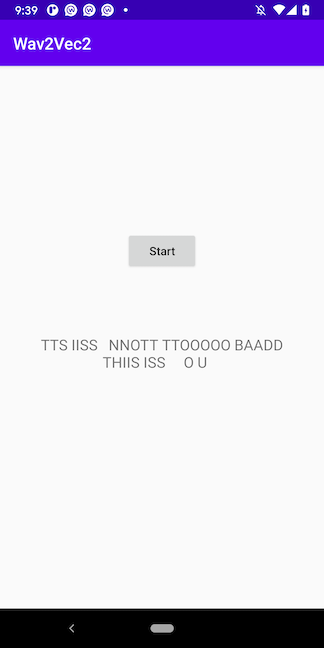
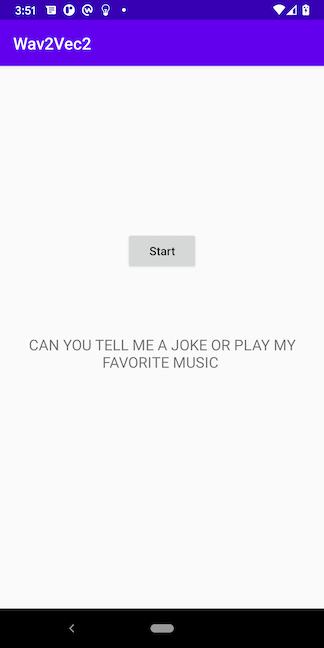
Updated speech recognition and machine translation apps for PyTorch 1.9 Lite Interpreter (#175)
* initial commit

* Revert "initial commit"

This reverts commit 5a65775315ad581637837a408f80607fa5e3fed7.

* main readme and helloworld/demo app readme updates

* updated script, Android code, README, model download link for the wav2vec2 ASR app to use 1.9 lite interpreter

* updated script, Android code, README, model download link for the NMT app to use 1.9 lite interpreter

diff --git a/Seq2SeqNMT/app/src/main/java/org/pytorch/demo/seq2seqnmt/MainActivity.java b/Seq2SeqNMT/app/src/main/java/org/pytorch/demo/seq2seqnmt/MainActivity.java
@@ -6,7 +6,9 @@
 
 package org.pytorch.demo.seq2seqnmt;
 
+import android.content.Context;
 import android.os.Bundle;
+import android.util.Log;
 import android.view.View;
 import android.widget.Button;
 import android.widget.EditText;
@@ -21,11 +23,16 @@ import org.pytorch.Module;
 import org.pytorch.PyTorchAndroid;
 import org.pytorch.Tensor;
 
+import java.io.File;
+import java.io.FileOutputStream;
 import java.io.IOException;
 import java.io.InputStream;
+import java.io.OutputStream;
 import java.nio.FloatBuffer;
 import java.nio.LongBuffer;
 import java.util.ArrayList;
+
+import org.pytorch.LiteModuleLoader;
 
 public class MainActivity extends AppCompatActivity implements Runnable{
     // to be consistent with the model inputs defined in seq2seq_nmt.py, based on
@@ -43,6 +50,26 @@ public class MainActivity extends AppCompatActivity implements Runnable{
     private EditText mEditText;
     private TextView mTextView;
     private Button mButton;
+
+    private static String assetFilePath(Context context, String assetName) throws IOException {
+        File file = new File(context.getFilesDir(), assetName);
+        if (file.exists() && file.length() > 0) {
+            return file.getAbsolutePath();
+        }
+
+        try (InputStream is = context.getAssets().open(assetName)) {
+            try (OutputStream os = new FileOutputStream(file)) {
+                byte[] buffer = new byte[4 * 1024];
+                int read;
+                while ((read = is.read(buffer)) != -1) {
+                    os.write(buffer, 0, read);
+                }
+                os.flush();
+            }
+            return file.getAbsolutePath();
+        }
+    }
+
 
     @Override
     protected void onCreate(Bundle savedInstanceState) {
@@ -76,7 +103,12 @@ public class MainActivity extends AppCompatActivity implements Runnable{
 
     private String translate(final String text) {
         if (mModuleEncoder == null) {
-            mModuleEncoder = PyTorchAndroid.loadModuleFromAsset(getAssets(), "optimized_encoder_150k.pth");
+            try {
+                mModuleEncoder = LiteModuleLoader.load(MainActivity.assetFilePath(getApplicationContext(), "optimized_encoder_150k.ptl"));
+            } catch (IOException e) {
+                Log.e(TAG, "Error reading assets", e);
+                finish();
+            }
         }
 
         String json;
@@ -140,7 +172,12 @@ public class MainActivity extends AppCompatActivity implements Runnable{
         Tensor outputsTensor = Tensor.fromBlob(outputsTensorBuffer, outputsShape);
         final long[] decoderInputShape = new long[]{1, 1};
         if (mModuleDecoder == null) {
-            mModuleDecoder = PyTorchAndroid.loadModuleFromAsset(getAssets(), "optimized_decoder_150k.pth");
+            try {
+                mModuleDecoder = LiteModuleLoader.load(MainActivity.assetFilePath(getApplicationContext(), "optimized_decoder_150k.ptl"));
+            } catch (IOException e) {
+                Log.e(TAG, "Error reading assets", e);
+                finish();
+            }
         }
 
         mInputTensorBuffer = Tensor.allocateLongBuffer(1);

diff --git a/SpeechRecognition/app/src/main/java/org/pytorch/demo/speechrecognition/MainActivity.java b/SpeechRecognition/app/src/main/java/org/pytorch/demo/speechrecognition/MainActivity.java
@@ -25,7 +25,8 @@ import java.io.IOException;
 import java.io.InputStream;
 import java.io.OutputStream;
 import java.nio.FloatBuffer;
-import java.util.Map;
+
+import org.pytorch.LiteModuleLoader;
 
 
 public class MainActivity extends AppCompatActivity implements Runnable {
@@ -36,7 +37,7 @@ public class MainActivity extends AppCompatActivity implements Runnable {
     private Button mButton;
 
     private final static int REQUEST_RECORD_AUDIO = 13;
-    private final static int AUDIO_LEN_IN_SECOND = 12;
+    private final static int AUDIO_LEN_IN_SECOND = 6;
     private final static int SAMPLE_RATE = 16000;
     private final static int RECORDING_LENGTH = SAMPLE_RATE * AUDIO_LEN_IN_SECOND;
 
@@ -193,9 +194,7 @@ public class MainActivity extends AppCompatActivity implements Runnable {
 
     private String recognize(float[] floatInputBuffer) {
         if (mModuleEncoder == null) {
-            final String moduleFileAbsoluteFilePath = new File(
-                    assetFilePath(this, "wav2vec2.pt")).getAbsolutePath();
-            mModuleEncoder = Module.load(moduleFileAbsoluteFilePath);
+            mModuleEncoder = LiteModuleLoader.load(assetFilePath(getApplicationContext(), "wav2vec2.ptl"));
         }
 
         double wav2vecinput[] = new double[RECORDING_LENGTH];

diff --git a/Seq2SeqNMT/seq2seq_nmt.py b/Seq2SeqNMT/seq2seq_nmt.py
@@ -287,7 +287,7 @@ def trainIters(encoder, decoder, n_iters, print_every=1000, plot_every=100, lear
 hidden_size = 256
 encoder = EncoderRNN(input_lang.n_words, hidden_size).to(device)
 decoder = AttnDecoderRNN(hidden_size, output_lang.n_words, dropout_p=0.1).to(device)
-#trainIters(encoder, decoder, 450100, print_every=5000)
+trainIters(encoder, decoder, 450100, print_every=5000)
 
 encoder = EncoderRNN(input_lang.n_words, hidden_size)
 decoder = AttnDecoderRNN(hidden_size, output_lang.n_words)
@@ -319,7 +319,7 @@ traced_decoder = torch.jit.trace(quantized_decoder, (decoder_input1, decoder_inp
 from torch.utils.mobile_optimizer import optimize_for_mobile
 
 traced_encoder_optimized = optimize_for_mobile(traced_encoder)
-traced_encoder_optimized.save("optimized_encoder_150k.pth")
+traced_encoder_optimized._save_for_lite_interpreter("optimized_encoder_150k.ptl")
 
 traced_decoder_optimized = optimize_for_mobile(traced_decoder)
-traced_decoder_optimized.save("optimized_decoder_150k.pth")
+traced_decoder_optimized._save_for_lite_interpreter("optimized_decoder_150k.ptl")

diff --git a/SpeechRecognition/create_wav2vec2.py b/SpeechRecognition/create_wav2vec2.py
@@ -61,4 +61,5 @@ optimized_model = optimize_for_mobile(scripted_model)
 waveform , _ = torchaudio.load('scent_of_a_woman_future.wav')
 print('Result:', optimized_model(waveform))
 
-optimized_model.save("wav2vec2.pt")
+optimized_model._save_for_lite_interpreter("wav2vec2.ptl")
+

diff --git a/Seq2SeqNMT/README.md b/Seq2SeqNMT/README.md
@@ -12,9 +12,9 @@ This Android demo app shows:
 
 ## Prerequisites
 
-* PyTorch 1.7 or later (Optional)
+* PyTorch 1.9.0 (Optional)
 * Python 3.8 (Optional)
-* Android Pytorch library 1.6, 1.7 or later
+* Android Pytorch library org.pytorch:pytorch_android_lite:1.9.0
 * Android Studio 4.0.1 or later
 
 ## Quick Start
@@ -23,13 +23,9 @@ To Test Run the Object Detection Android App, follow the steps below:
 
 ### 1. Prepare the Model
 
-If you don't have the PyTorch environment set up to run the script, you can download the PyTorch trained and optimized NMT encoder and decoder models compressed in a zip [here](https://drive.google.com/file/d/1Ju9ceHi5e87UW1P09-XIvPVdMjOs5kiE/view?usp=sharing), unzip it, copy them to the Android app's assets folder, and skip the rest of this step and go to step 2 directly.
+If you don't have the PyTorch environment set up to run the script, you can download the PyTorch trained and optimized NMT encoder and decoder models compressed in a zip [here](https://drive.google.com/file/d/1S75cWNEp43U6nCp2MOBR-jE-ZnlHz1PI/view?usp=sharing), unzip it, copy them to the Android app's assets folder, and skip the rest of this step and go to step 2 directly.
 
-Be aware that the downloadable model file was created with PyTorch 1.7.0, matching the PyTorch Android library 1.7.0 specified in the project's `build.gradle` file as `implementation 'org.pytorch:pytorch_android:1.7.0'`. If you use a different version of PyTorch to create your model by following the instructions below, make sure you specify the same PyTorch Android library version in the `build.gradle` file to avoid possible errors caused by the version mismatch. Furthermore, if you want to use the latest PyTorch master code to create the model, follow the steps at [Building PyTorch Android from Source](https://pytorch.org/mobile/android/#building-pytorch-android-from-source) and [Using the PyTorch Android Libraries Built](https://pytorch.org/mobile/android/#using-the-pytorch-android-libraries-built-from-source-or-nightly) on how to use the model in Android.
-
-If you have a good GPU and want to train your model from scratch, uncomment the line `trainIters(encoder, decoder, 450100, print_every=5000)` in `seq2seq_nmt.py` before running `python seq2seq2_nmt.py` to go through the whole process of training, saving, loading, optimizing and saving the final mobile-ready models.
-
-To just convert a pre-trained model `seq2seq_mt_150000.pt` to the TorchScript model used on mobile, download [seq2seq_mt_150000.pt](https://drive.google.com/file/d/1f91PvlkxS8JS0xGpMRZ3fmr0Ev80Guxk/view?usp=sharing) first to the same directory as `seq2seq2_nmt.py`, then run `python seq2seq2_nmt.py`. After `optimized_encoder_150k.pth` and `optimized_decoder_150k.pth` are generated, copy them to the Android app's assets folder. Note that dynamic quantization is applied to the decoder in `seq2seq2_nmt.py` for its `nn.Linear` parameters to reduce the decoder model size from 29MB to 18MB.
+If you have a good GPU and want to train your model from scratch, run `python seq2seq2_nmt.py` to go through the whole process of training, saving, loading, optimizing and saving the final mobile-ready models `optimized_encoder_150k.ptl` and `optimized_decoder_150k.ptl`. Copy the two model files to the Android app's assets folder.
 
 ### 2. Build and run with Android Studio
 

diff --git a/SpeechRecognition/README.md b/SpeechRecognition/README.md
@@ -10,7 +10,7 @@ In this demo app, we'll show how to quantize, trace, and optimize the wav2vec2 m
 
 * PyTorch 1.9.0 and torchaudio 0.9.0 (Optional)
 * Python 3.8 (Optional)
-* Android PyTorch library 1.9.0
+* Android Pytorch library org.pytorch:pytorch_android_lite:1.9.0
 * Android Studio 4.0.1 or later
 
 ## Quick Start
@@ -24,7 +24,7 @@ git clone https://github.com/pytorch/android-demo-app
 cd android-demo-app/SpeechRecognition
 ```
 
-If you don't have PyTorch 1.9.0 and torchaudio 0.9.0 installed or want to have a quick try of the demo app, you can download the quantized scripted wav2vec2 model file [here](https://drive.google.com/file/d/1RcCy3K3gDVN2Nun5IIdDbpIDbrKD-XVw/view?usp=sharing), then drag and drop it to the `app/src/main/assets` folder inside  `android-demo-app/SpeechRecognition`, and continue to Step 3.
+If you don't have PyTorch 1.9.0 and torchaudio 0.9.0 installed or want to have a quick try of the demo app, you can download the quantized scripted wav2vec2 model file [here](https://drive.google.com/file/d/1xMh-BZMSIeoohBfZvQFYcemmh5zUn_gh/view?usp=sharing), then drag and drop it to the `app/src/main/assets` folder inside  `android-demo-app/SpeechRecognition`, and continue to Step 3.
 
 ### 2. Prepare the Model
 
@@ -42,7 +42,7 @@ Now with PyTorch 1.9.0 and torchaudio 0.9.0 installed, run the following command
 ```
 python create_wav2vec2.py
 ```
-This will create the model file `wav2vec2.pt`. Copy it to the Android app:
+This will create the PyTorch mobile interpreter model file `wav2vec2.ptl`. Copy it to the Android app:
 ```
 
 mkdir -p app/src/main/assets
@@ -51,7 +51,7 @@ cp wav2vec2.pt app/src/main/assets
 
 ### 2. Build and run with Android Studio
 
-Start Android Studio, open the project located in `android-demo-app/SpeechRecognition`, build and run the app on an Android device. After the app runs, tap the Start button and start saying something; after 12 seconds (you can change `private final static int AUDIO_LEN_IN_SECOND = 12;` in `MainActivity.java` for a shorter or longer recording length), the model will infer to recognize your speech. Some example recognition results are:
+Start Android Studio, open the project located in `android-demo-app/SpeechRecognition`, build and run the app on an Android device. After the app runs, tap the Start button and start saying something; after 6 seconds (you can change `private final static int AUDIO_LEN_IN_SECOND = 6;` in `MainActivity.java` for a shorter or longer recording length), the model will infer to recognize your speech. Some example recognition results are:
 
 ![](screenshot1.png)
 ![](screenshot2.png)
